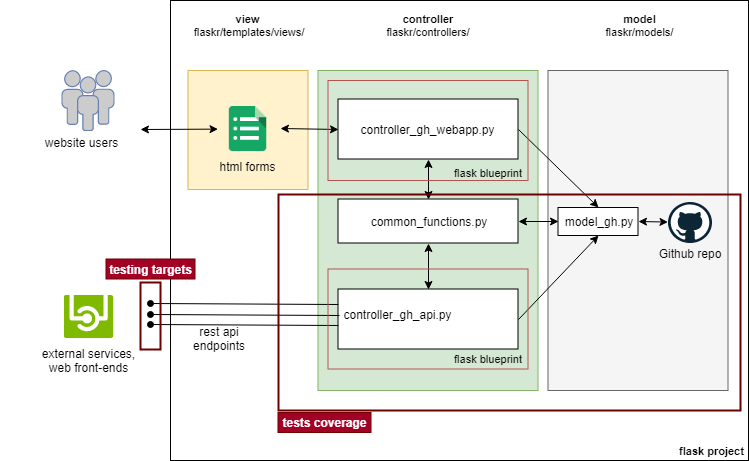
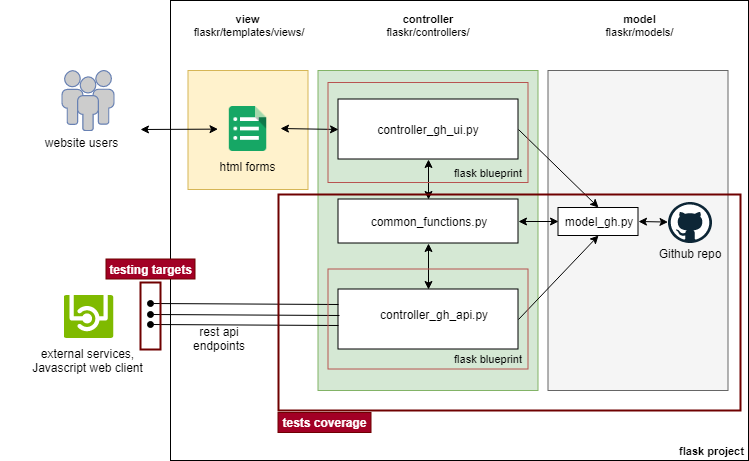
polishing

diff --git a/flaskr/templates/views/gh_files_manager.html b/flaskr/templates/views/gh_files_manager.html
@@ -16,7 +16,7 @@
             {% endfor %}
         </li>
         <li>Commit a new file to the branch {{ template_current_branch }}
-            <a href="{{ url_for('controller_gh_webapp.upload_file', branch_name=template_current_branch) }}">here</a></li>
+            <a href="{{ url_for('controller_gh_ui.upload_file', branch_name=template_current_branch) }}">here</a></li>
         <li>Files list in the {{ template_current_branch }} branch:</li>
     </ul>
 
@@ -31,17 +31,17 @@
             <tr>
                 <td>{{ file[0] }}</td>
                 <td>{% if file[1] %} <!-- if file is "editable" based on file extension type, show edit link -->
-                    <a href="{{ url_for('controller_gh_webapp.edit_file', branch_name=template_current_branch, file_name=file[0]) }}">
+                    <a href="{{ url_for('controller_gh_ui.edit_file', branch_name=template_current_branch, file_name=file[0]) }}">
                         edit file
                     </a>
                     {% else %}
-                    <a href="{{ url_for('controller_gh_webapp.edit_file', branch_name=template_current_branch, file_name=file[0]) }}">
+                    <a href="{{ url_for('controller_gh_ui.edit_file', branch_name=template_current_branch, file_name=file[0]) }}">
                         override file
                     </a>
                     {% endif %}
                 </td>
                 <td>
-                    <a href="{{ url_for('controller_gh_webapp.delete_file', branch_name=template_current_branch, file_name=file[0]) }}">
+                    <a href="{{ url_for('controller_gh_ui.delete_file', branch_name=template_current_branch, file_name=file[0]) }}">
                         delete file
                     </a>
                 </td>

diff --git a/flaskr/templates/views/gh_branches_manager.html b/flaskr/templates/views/gh_branches_manager.html
@@ -20,12 +20,12 @@
             <tr>
                 <td>{{ branch }}</td>
                 <td>
-                    <a href="{{ url_for('controller_gh_webapp.create_branch', branch_name=branch) }}">
+                    <a href="{{ url_for('controller_gh_ui.create_branch', branch_name=branch) }}">
                         use as a base for creating a new branch
                     </a>
                 </td>
                 <td>
-                    <a href="{{ url_for('controller_gh_webapp.delete_branch', branch_name=branch) }}">
+                    <a href="{{ url_for('controller_gh_ui.delete_branch', branch_name=branch) }}">
                         delete branch
                     </a>
                 </td>

diff --git a/flaskr/controllers/controller_gh_ui.py b/flaskr/controllers/controller_gh_ui.py
@@ -11,14 +11,14 @@ from flaskr.lib import global_variables, settings
 from flaskr.models import model_gh
 from flaskr.controllers import common_functions
 
-CONTROLLER_GH_WEBAPP = Blueprint('controller_gh_webapp', __name__,
-                                 template_folder='templates')
+CONTROLLER_GH_UI = Blueprint('controller_gh_ui', __name__,
+                             template_folder='templates')
 
 
 # @controller_gh.routes - views functions for ui user interaction
 # optionally validating the inputs and returning redirects or rendering templates
 # with the html forms
-@CONTROLLER_GH_WEBAPP.route('/views/gh_branches_manager/', methods=['GET'])
+@CONTROLLER_GH_UI.route('/views/gh_branches_manager/', methods=['GET'])
 def gh_branches_manager():
     """
     github branches manager function
@@ -50,7 +50,7 @@ def gh_branches_manager():
                            template_repo_name=settings.REPO)
 
 
-@CONTROLLER_GH_WEBAPP.route('/views/gh_branches_manager/branch/<branch_name>/create/', methods=['GET'])
+@CONTROLLER_GH_UI.route('/views/gh_branches_manager/branch/<branch_name>/create/', methods=['GET'])
 def create_branch(branch_name):
     """
     create branch function
@@ -61,7 +61,7 @@ def create_branch(branch_name):
                            template_current_branch=branch_name)
 
 
-@CONTROLLER_GH_WEBAPP.route('/views/gh_branches_manager/branch/<branch_name>/delete/', methods=['GET'])
+@CONTROLLER_GH_UI.route('/views/gh_branches_manager/branch/<branch_name>/delete/', methods=['GET'])
 def delete_branch(branch_name):
     """
     delete branch function
@@ -72,7 +72,7 @@ def delete_branch(branch_name):
                            template_current_branch=branch_name)
 
 
-@CONTROLLER_GH_WEBAPP.route('/views/gh_files_manager/branch/<branch_name>/', methods=['GET'])
+@CONTROLLER_GH_UI.route('/views/gh_files_manager/branch/<branch_name>/', methods=['GET'])
 def gh_files_manager(branch_name):
     """
     github files manager function
@@ -117,7 +117,7 @@ def gh_files_manager(branch_name):
                            template_file_list=files_list_content)
 
 
-@CONTROLLER_GH_WEBAPP.route('/views/gh_files_manager/branch/<branch_name>/file/create/', methods=['GET'])
+@CONTROLLER_GH_UI.route('/views/gh_files_manager/branch/<branch_name>/file/create/', methods=['GET'])
 def upload_file(branch_name):
     """
     upload file function
@@ -128,7 +128,7 @@ def upload_file(branch_name):
                            template_current_branch=branch_name)
 
 
-@CONTROLLER_GH_WEBAPP.route('/views/gh_files_manager/branch/<branch_name>/file/edit/<path:file_name>', methods=['GET'])
+@CONTROLLER_GH_UI.route('/views/gh_files_manager/branch/<branch_name>/file/edit/<path:file_name>', methods=['GET'])
 def edit_file(branch_name, file_name):
     """
     edit file function
@@ -162,7 +162,7 @@ def edit_file(branch_name, file_name):
         return redirect('/views/gh_files_manager/branch/' + branch_name)
 
 
-@CONTROLLER_GH_WEBAPP.route('/views/gh_files_manager/branch/<branch_name>/file/delete/<path:file_name>', methods=['GET'])
+@CONTROLLER_GH_UI.route('/views/gh_files_manager/branch/<branch_name>/file/delete/<path:file_name>', methods=['GET'])
 def delete_file(branch_name, file_name):
     """
     delete file function
@@ -187,7 +187,7 @@ def delete_file(branch_name, file_name):
 # @controller_gh.routes - worker functions accepting form requests from the html forms,
 # proceeding with the desired actions and returning redirects to lead the
 # ui user back to the branches or files manager
-@CONTROLLER_GH_WEBAPP.route('/branch_creator/', methods=['GET', 'POST'])
+@CONTROLLER_GH_UI.route('/branch_creator/', methods=['GET', 'POST'])
 def branch_creator():
     """
     branch creator function
@@ -210,7 +210,7 @@ def branch_creator():
         return redirect('/views/gh_branches_manager/')
 
 
-@CONTROLLER_GH_WEBAPP.route('/branch_deleter/<branch_name>/', methods=['GET', 'POST'])
+@CONTROLLER_GH_UI.route('/branch_deleter/<branch_name>/', methods=['GET', 'POST'])
 def branch_deleter(branch_name):
     """
     branch deleter function
@@ -231,7 +231,7 @@ def branch_deleter(branch_name):
         return redirect('/views/gh_branches_manager/')
 
 
-@CONTROLLER_GH_WEBAPP.route('/file_uploader/<branch_name>/', methods=['GET', 'POST'])
+@CONTROLLER_GH_UI.route('/file_uploader/<branch_name>/', methods=['GET', 'POST'])
 def file_uploader(branch_name):
     """
     file uploader function
@@ -279,7 +279,7 @@ def file_uploader(branch_name):
     return redirect('/views/gh_files_manager/branch/' + branch_name)
 
 
-@CONTROLLER_GH_WEBAPP.route('/file_editor/<branch_name>/file/edit/<path:file_name>', methods=['GET', 'POST'])
+@CONTROLLER_GH_UI.route('/file_editor/<branch_name>/file/edit/<path:file_name>', methods=['GET', 'POST'])
 def file_editor(branch_name, file_name):
     """
     file editor function
@@ -325,7 +325,7 @@ def file_editor(branch_name, file_name):
         return redirect('/views/gh_files_manager/branch/' + branch_name)
 
 
-@CONTROLLER_GH_WEBAPP.route('/file_deleter/<branch_name>/file/delete/<path:file_name>', methods=['GET', 'POST'])
+@CONTROLLER_GH_UI.route('/file_deleter/<branch_name>/file/delete/<path:file_name>', methods=['GET', 'POST'])
 def file_deleter(branch_name, file_name):
     """
     file deleter function

diff --git a/flaskr/__main__.py b/flaskr/__main__.py
@@ -6,7 +6,7 @@ import os.path
 from flask import Flask, render_template
 from flaskr.lib import settings, global_variables
 from flaskr.models import model_gh
-from flaskr.controllers.controller_gh_ui import CONTROLLER_GH_WEBAPP
+from flaskr.controllers.controller_gh_ui import CONTROLLER_GH_UI
 # you can also import specific functions from a Blueprint module:
 # from flaskr.controllers.common_functions import session_getter, branch_lister, file_lister
 from flaskr.controllers.controller_gh_api import CONTROLLER_GH_API
@@ -14,7 +14,7 @@ from flaskr.controllers.controller_gh_api import CONTROLLER_GH_API
 # flask app starts here
 APP = Flask(__name__)
 APP.secret_key = os.environ['flask_secret_key']
-APP.register_blueprint(CONTROLLER_GH_WEBAPP)
+APP.register_blueprint(CONTROLLER_GH_UI)
 APP.register_blueprint(CONTROLLER_GH_API)
 
 
